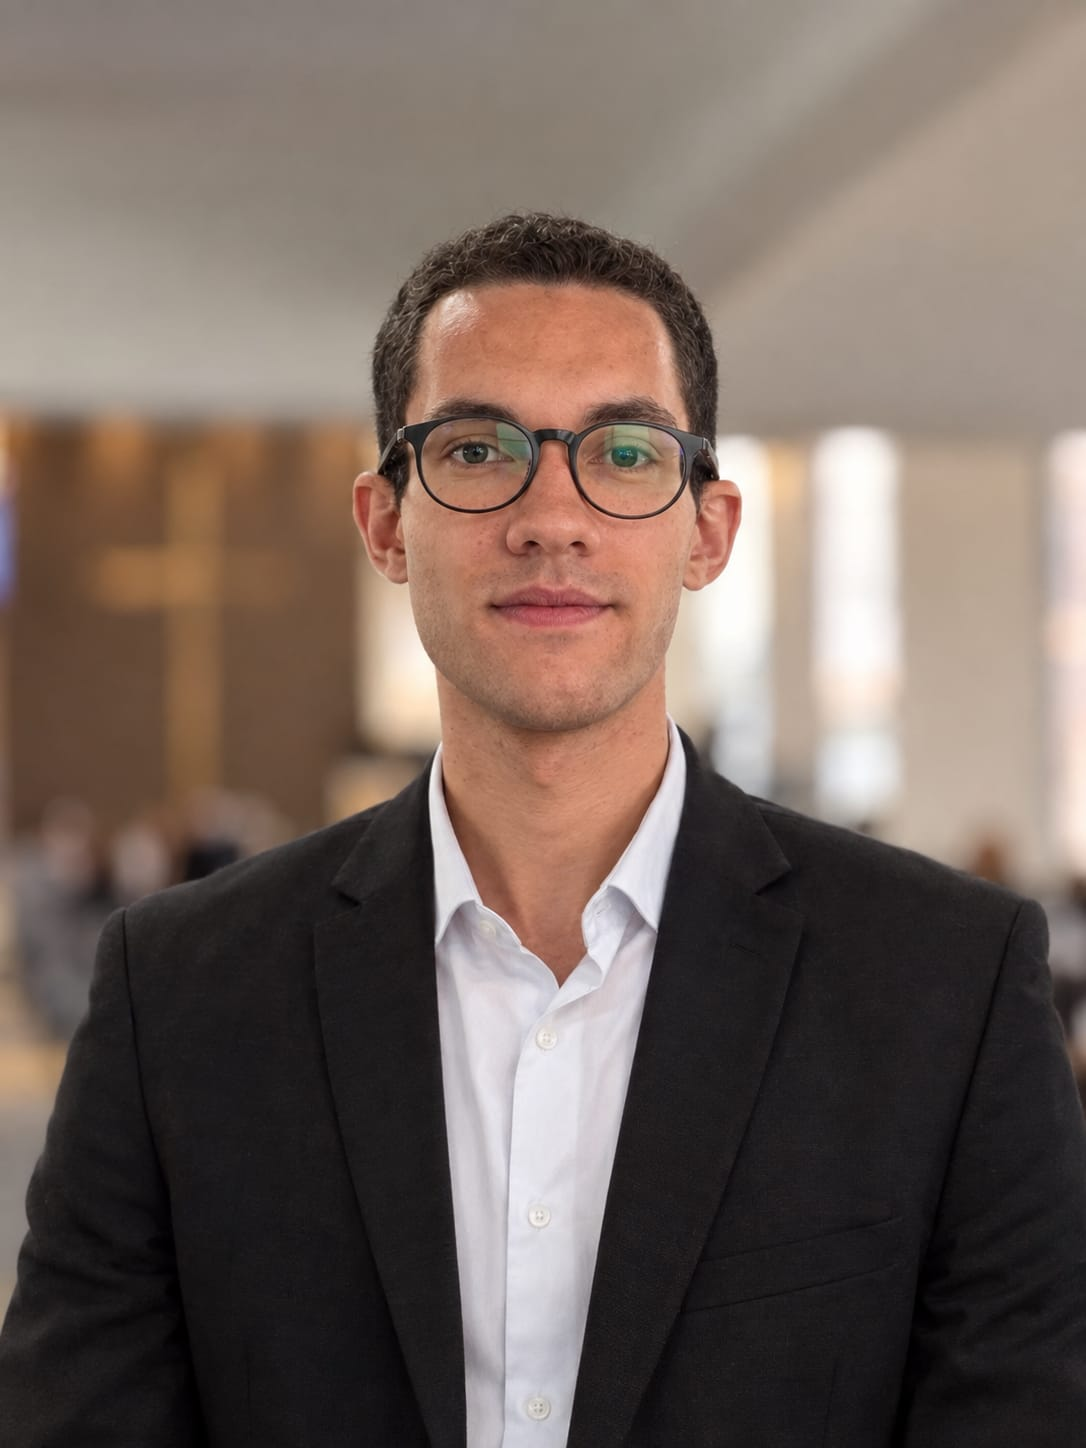
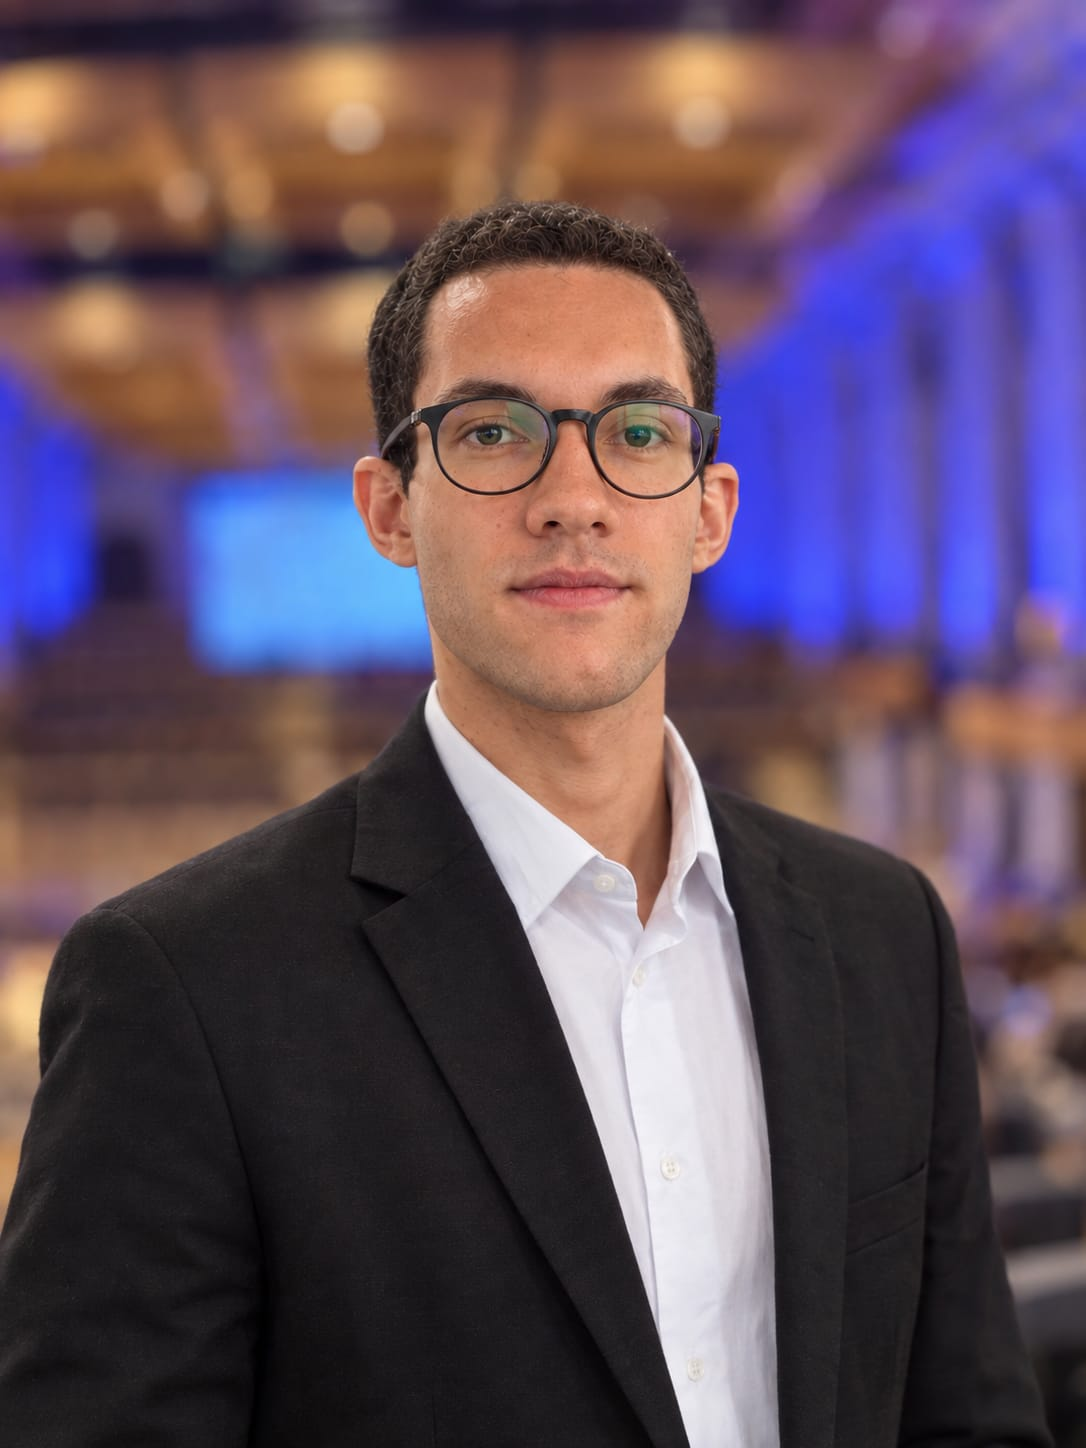
feat: atualiza foto de perfil com a versao mais recente baixada

diff --git a/index.html b/index.html
@@ -583,7 +583,7 @@
     <!-- CARTÃO DE VISITAS PRINCIPAL -->
     <header class="hero-box">
       <div class="avatar-box">
-        <img src="assets/images/felipe.png" alt="Foto de Felipe Junqueira" class="avatar-img" />
+        <img src="assets/images/felipe.png?v=2" alt="Foto de Felipe Junqueira" class="avatar-img" />
         <div class="verified-icon" title="Verificado">
           <i data-lucide="check" style="width: 18px; height: 18px;"></i>
         </div>
